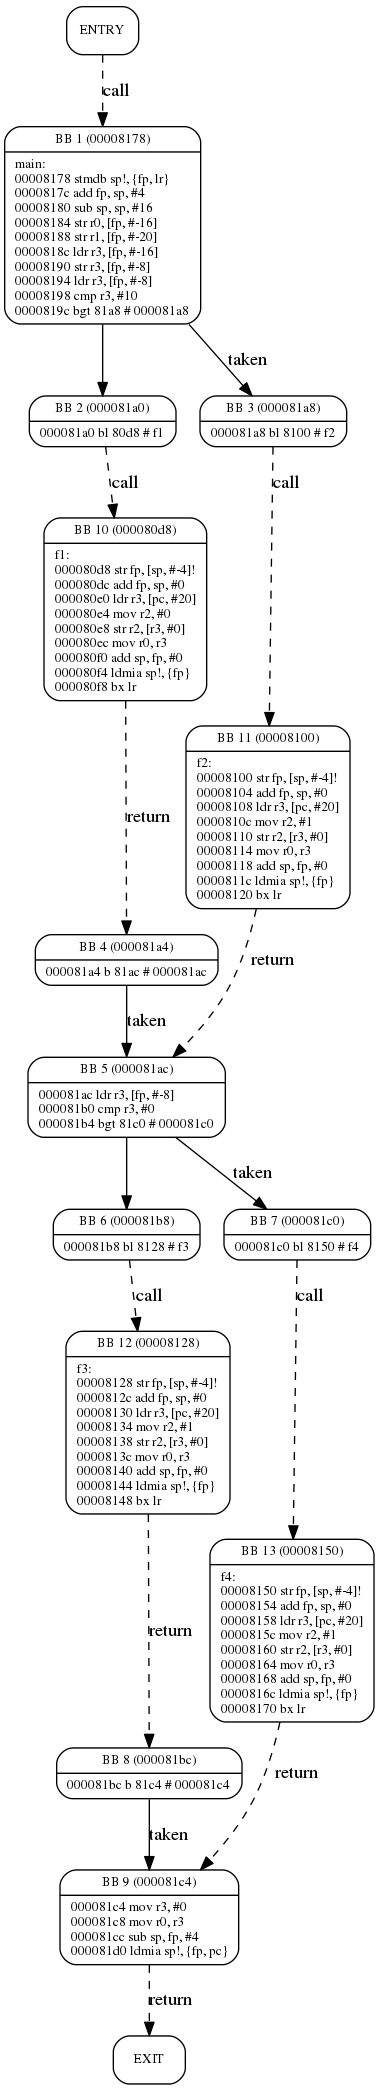
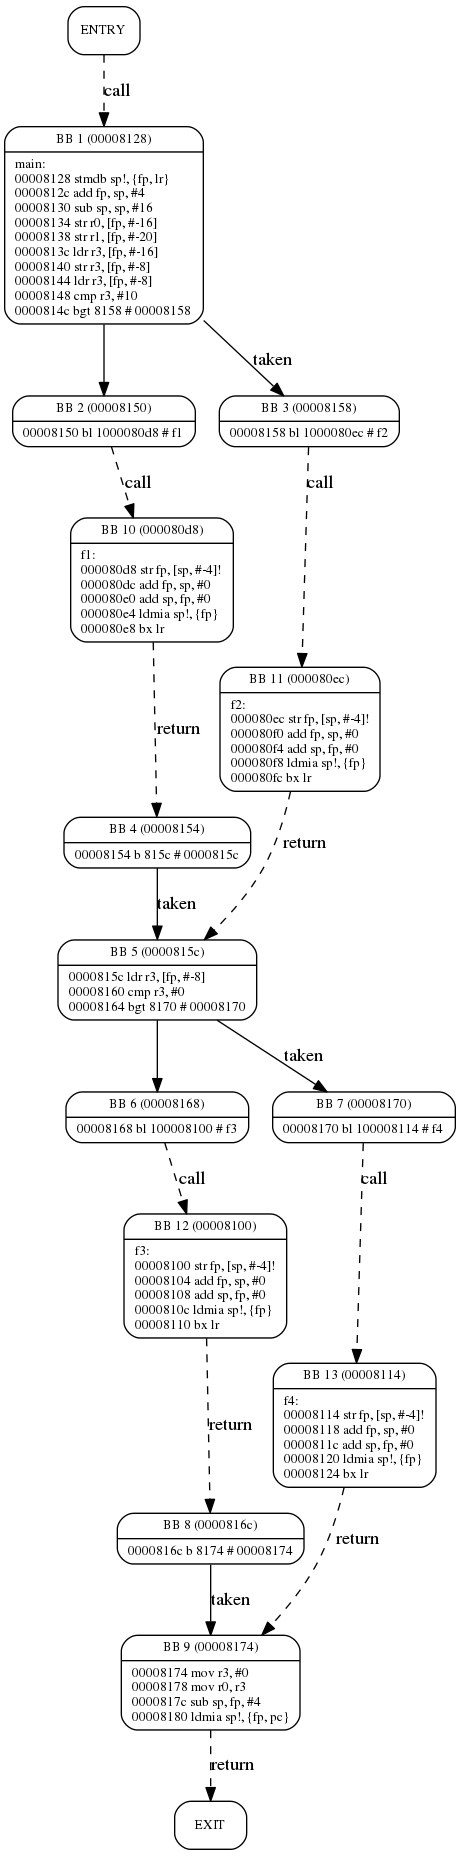
Improved time debugging for multithreaded analysis. Tweaked benchs a bit. Removing tautologies after a SAT response from an SMT call, for optimization purposes

diff --git a/src/analysis.cpp b/src/analysis.cpp
@@ -11,6 +11,7 @@
 #include <otawa/cfg/features.h> // COLLECTED_CFG_FEATURE
 #include <otawa/dfa/State.h> // INITIAL_STATE_FEATURE
 #include <otawa/prog/WorkSpace.h>
+#include <sys/time.h>
 #include "/home/jruiz/Documents/oslice/blockBased/cfg_v2_plugin/oslice_features.h"
 #include "analysis_state.h"
 #include "cfg_features.h"
@@ -72,14 +73,21 @@ const Vector<DetailedPath>& Analysis::run(CFG *cfg)
 	DBG("Using SMT solver: " << (flags&DRY_RUN ? "(none)" : SMT::printChosenSolverInfo()))
 	DBG("Stack pointer identified to " << context.sp)
 
+    struct timeval tim;
 	std::time_t start = clock();
 	sw.start();
+    gettimeofday(&tim, NULL);
+    t::int64 t1 = tim.tv_sec*1000000+tim.tv_usec;
+	
 	processCFG(cfg);
+
+    gettimeofday(&tim, NULL);
+    t::int64 t2 = tim.tv_sec*1000000+tim.tv_usec;
 	sw.stop();
 	std::time_t end = clock();
 	
 	postProcessResults(cfg);
-	printResults((end-start)*1000/CLOCKS_PER_SEC);
+	printResults((end-start)*1000/CLOCKS_PER_SEC, (t2-t1)/1000);
 	if(flags&SHOW_PROGRESS) delete progress;
 	return infeasiblePaths();
 }
@@ -337,7 +345,7 @@ elm::String Analysis::orderedPathToString(const OrderedPath& path)
  * @brief Print results after a CFG analysis completes
  * @param exec_time_ms Measured execution time of the analysis (in ms)
  */
-void Analysis::printResults(int exec_time_ms) const
+void Analysis::printResults(int exec_time_ms, int real_time_ms) const
 {
 	if(dbg_verbose == DBG_VERBOSE_NONE)
 		return;
@@ -348,7 +356,7 @@ void Analysis::printResults(int exec_time_ms) const
 			DBG(color::BIGre() << infeasible_paths_count << " infeasible path" << (infeasible_paths_count == 1 ? "" : "s") << " found: ")
 		else
 			DBG(color::BIGre() << infeasible_paths_count << " infeasible path" << (infeasible_paths_count == 1 ? "" : "s") << " found: "
-				<< "(" << (exec_time_ms>=1000 ? ((float)exec_time_ms)/(float(100)) : exec_time_ms) << (exec_time_ms>=1000 ? "s" : "ms") << ")")
+				<< "(" << (real_time_ms>=1000 ? ((float)real_time_ms)/(float(1000)) : real_time_ms) << (real_time_ms>=1000 ? "s" : "ms") << ")")
 		if(dbg_flags&DBG_RESULT_IPS)
 			for(Vector<DetailedPath>::Iterator iter(infeasible_paths); iter; iter++)
 				DBG(color::IGre() << "    * [" << *iter << "]")
@@ -363,9 +371,9 @@ void Analysis::printResults(int exec_time_ms) const
 		{
 		    std::ios_base::fmtflags oldflags = std::cout.flags();
 		    std::streamsize oldprecision = std::cout.precision();
-			std::cout << std::fixed << std::setprecision(3) << color::IYel().chars() << " (" << ((float)exec_time_ms)/1000.f << "s)" << color::RCol().chars();
+			std::cout << std::fixed << std::setprecision(3) << color::IYel().chars() << " (" << real_time_ms/1000.f << "s)" << color::RCol().chars();
 		    if(dbg_flags&DBG_DETAILED_STATS)
-				std::cout << color::Yel().chars() << " [" << ((float)sw.delay())/1000000.f << "s]" << color::RCol().chars();
+				std::cout << color::Yel().chars() << " [" << sw.delay()/1000000.f << " of " << exec_time_ms/1000.f << "s]" << color::RCol().chars();
 		    std::cout.flags(oldflags);
 		    std::cout.precision(oldprecision);
 			std::cout << endl;

diff --git a/src/operand.h b/src/operand.h
@@ -118,7 +118,7 @@ public:
 	Option<Operand*> replaceConstants(const ConstantVariablesSimplified& constants, Vector<OperandVar>& replaced_vars); // warning: Option=none does not warrant that nothing has been replaced!
 	void parseAffineEquation(AffineEquationState& state) const;
 	inline bool isComplete() const { return true; }
-	inline bool isConstant()   const { return true; }
+	inline bool isConstant() const { return true; }
 	inline bool isLinear()   const { return true; }
 	inline bool isAffine(const OperandVar& opdv) const { return true; }
 	inline bool accept(OperandVisitor& visitor) const { return visitor.visit(*this); }

diff --git a/src/analysis_state.cpp b/src/analysis_state.cpp
@@ -260,3 +260,20 @@ bool Analysis::State::equiv(const Analysis::State& s) const
 	DBG(s.dumpEverything())
 	return true;
 }
+
+/**
+ * @fn void Analysis::State::removeConstantPredicates();
+ * @brief Removes constant predicates. Useful after a SMT call returning SAT, as the constant predicates of such states must be tautologies
+ */
+void Analysis::State::removeConstantPredicates()
+{	
+	for(PredIterator piter(*this); piter; )
+	{
+		if(piter.pred().isConstant())
+		{
+			DBG(color::IPur() << DBG_SEPARATOR << color::IYel() << " - " << *piter)
+			removePredicate(piter);
+		}
+		else piter++;
+	}
+}

diff --git a/src/predicate.h b/src/predicate.h
@@ -30,6 +30,7 @@ public:
 	
 	inline bool isIdent() const    { return (*_opd1 == *_opd2) && _opr == CONDOPR_EQ; }
 	inline bool isComplete() const { return _opd1->isComplete() && _opd2->isComplete(); }
+	inline bool isConstant() const { return _opd1->isConstant() && _opd2->isConstant(); }
 	inline bool isLinear() const   { return _opd1->isLinear() && _opd2->isLinear(); }
 	Predicate* copy() const;
 	int involvesOperand(const Operand& opd) const;

diff --git a/src/oracle.cpp b/src/oracle.cpp
@@ -194,6 +194,8 @@ Analysis::IPStats DefaultAnalysis::ipcheck(States& ss, elm::genstruct::Vector<De
 			delete *pi;
 		}
 	}
+	for(Vector<Analysis::State>::MutableIterator svi(new_sv); svi; svi++)
+		svi.item().removeConstantPredicates(); // remaining constant predicates are tautologies, there is no need to keep them
 	ss = new_sv; // TODO!! this is copying states, horribly unoptimized, we only need to remove a few states!
 	return stats;
 }

diff --git a/src/main.cpp b/src/main.cpp
@@ -110,8 +110,8 @@ private:
 	void initializeLoggingOptions() {
 		// high verbose numbers are more silent. TODO: that is counterintuitive
 		dbg_verbose = 1; // default
-		if(opt_s0) dbg_verbose = 0;
 		if(opt_s2) dbg_verbose = 2;
+		if(opt_s0) dbg_verbose = 0;
 		if(opt_s3) dbg_verbose = 3;
 		if(opt_progress)
 			dbg_verbose = max(dbg_verbose, 2); // minimum 2	

diff --git a/src/analysis.h b/src/analysis.h
@@ -124,7 +124,7 @@ private:
 	// void debugProgress(int block_id, bool enable_smt) const;
 	Analysis::State topState(Block* entry) const;
 	void wl_push(Block* b);
-	void printResults(int exec_time_ms) const;
+	void printResults(int exec_time_ms, int real_time_ms) const;
 	void postProcessResults(CFG *cfg);
 	
 	// analysis_cfg.cpp

diff --git a/benchmarks/if_then_else_2seq/if_then_else_2seq.c b/benchmarks/if_then_else_2seq/if_then_else_2seq.c
@@ -1,26 +1,16 @@
-#include <math.h>
-
 volatile k;
 
-int f1()
+void f1()
 {
-//	time(NULL);
-	k = sqrt(0);
 }
-int f2()
+void f2()
 {
-//	time(NULL);
-	k = sqrt(1);
 }
-int f3()
+void f3()
 {
-//	time(NULL);
-	k = sqrt(2);
 }
-int f4()
+void f4()
 {
-//	time(NULL);
-	k = sqrt(3);
 }
 
 int main(int argc, char** argv)

diff --git a/src/analysis_state.h b/src/analysis_state.h
@@ -54,6 +54,7 @@ public:
 	template<template< class _ > class C> void merge(const C<Analysis::State>& cl, Block* b);
 	bool equiv(const State& s) const;
 	void appendEdge(Edge* e, bool is_conditional);
+	void removeConstantPredicates();
 
 	// analysis_bb.cpp
 	void processBB(const BasicBlock *bb);
